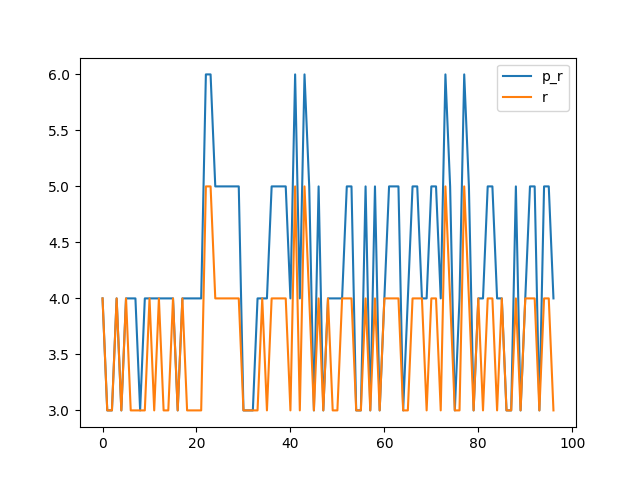
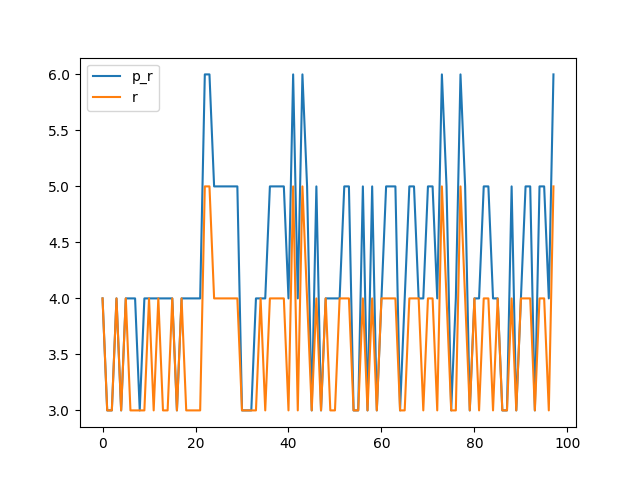
0x0061

diff --git a/benchmark.md b/benchmark.md
@@ -192,16 +192,18 @@ Synthesising 0x005F pexact:238 r=5 exact:272 r=4
 
 Synthesising 0x0060 pexact:208 r=4 exact:224 r=3
 
+Synthesising 0x0061 pexact:406 r=6 exact:472 r=5
+
 ```mermaid
 xychart-beta
     title "Comparison powertwoexact twoexact"
-    x-axis [0, 1, 2, 3, 4, 5, 6, 7, 8, 9, 10, 11, 12, 13, 14, 15, 16, 17, 18, 19, 20, 21, 22, 23, 24, 25, 26, 27, 28, 29, 30, 31, 32, 33, 34, 35, 36, 37, 38, 39, 40, 41, 42, 43, 44, 45, 46, 47, 48, 49, 50, 51, 52, 53, 54, 55, 56, 57, 58, 59, 60, 61, 62, 63, 64, 65, 66, 67, 68, 69, 70, 71, 72, 73, 74, 75, 76, 77, 78, 79, 80, 81, 82, 83, 84, 85, 86, 87, 88, 89, 90, 91, 92, 93, 94, 95, 96]
+    x-axis [0, 1, 2, 3, 4, 5, 6, 7, 8, 9, 10, 11, 12, 13, 14, 15, 16, 17, 18, 19, 20, 21, 22, 23, 24, 25, 26, 27, 28, 29, 30, 31, 32, 33, 34, 35, 36, 37, 38, 39, 40, 41, 42, 43, 44, 45, 46, 47, 48, 49, 50, 51, 52, 53, 54, 55, 56, 57, 58, 59, 60, 61, 62, 63, 64, 65, 66, 67, 68, 69, 70, 71, 72, 73, 74, 75, 76, 77, 78, 79, 80, 81, 82, 83, 84, 85, 86, 87, 88, 89, 90, 91, 92, 93, 94, 95, 96, 97]
     y-axis "Switching Activity" 0-->472
-    line [96, 152, 152, 182, 152, 182, 208, 182, 152, 208, 182, 182, 182, 182, 182, 182, 152, 182, 208, 182, 208, 182, 406, 400, 336, 310, 310, 304, 310, 304, 224, 216, 152, 208, 182, 182, 336, 310, 310, 304, 208, 406, 182, 400, 310, 224, 304, 216, 182, 182, 182, 182, 310, 304, 224, 216, 310, 224, 304, 216, 280, 326, 326, 238, 152, 208, 336, 310, 182, 182, 310, 304, 208, 406, 310, 224, 182, 400, 304, 216, 182, 182, 310, 304, 182, 182, 224, 216, 310, 224, 280, 326, 304, 216, 326, 238, 208]
-    line [192, 152, 152, 312, 152, 352, 224, 192, 192, 224, 352, 216, 320, 216, 216, 352, 152, 326, 224, 216, 224, 192, 464, 448, 352, 344, 344, 320, 336, 352, 224, 216, 192, 224, 318, 192, 352, 344, 344, 312, 224, 448, 192, 440, 344, 224, 312, 216, 320, 216, 216, 280, 344, 312, 224, 216, 344, 224, 320, 216, 344, 336, 344, 288, 152, 224, 352, 336, 320, 192, 344, 320, 224, 472, 336, 224, 192, 448, 312, 216, 248, 192, 320, 352, 216, 192, 224, 216, 320, 224, 352, 344, 320, 216, 336, 272, 224]
-    line [244.1237113402062, 244.1237113402062, 244.1237113402062, 244.1237113402062, 244.1237113402062, 244.1237113402062, 244.1237113402062, 244.1237113402062, 244.1237113402062, 244.1237113402062, 244.1237113402062, 244.1237113402062, 244.1237113402062, 244.1237113402062, 244.1237113402062, 244.1237113402062, 244.1237113402062, 244.1237113402062, 244.1237113402062, 244.1237113402062, 244.1237113402062, 244.1237113402062, 244.1237113402062, 244.1237113402062, 244.1237113402062, 244.1237113402062, 244.1237113402062, 244.1237113402062, 244.1237113402062, 244.1237113402062, 244.1237113402062, 244.1237113402062, 244.1237113402062, 244.1237113402062, 244.1237113402062, 244.1237113402062, 244.1237113402062, 244.1237113402062, 244.1237113402062, 244.1237113402062, 244.1237113402062, 244.1237113402062, 244.1237113402062, 244.1237113402062, 244.1237113402062, 244.1237113402062, 244.1237113402062, 244.1237113402062, 244.1237113402062, 244.1237113402062, 244.1237113402062, 244.1237113402062, 244.1237113402062, 244.1237113402062, 244.1237113402062, 244.1237113402062, 244.1237113402062, 244.1237113402062, 244.1237113402062, 244.1237113402062, 244.1237113402062, 244.1237113402062, 244.1237113402062, 244.1237113402062, 244.1237113402062, 244.1237113402062, 244.1237113402062, 244.1237113402062, 244.1237113402062, 244.1237113402062, 244.1237113402062, 244.1237113402062, 244.1237113402062, 244.1237113402062, 244.1237113402062, 244.1237113402062, 244.1237113402062, 244.1237113402062, 244.1237113402062, 244.1237113402062, 244.1237113402062, 244.1237113402062, 244.1237113402062, 244.1237113402062, 244.1237113402062, 244.1237113402062, 244.1237113402062, 244.1237113402062, 244.1237113402062, 244.1237113402062, 244.1237113402062, 244.1237113402062, 244.1237113402062, 244.1237113402062, 244.1237113402062, 244.1237113402062, 244.1237113402062]
-    line [278.3917525773196, 278.3917525773196, 278.3917525773196, 278.3917525773196, 278.3917525773196, 278.3917525773196, 278.3917525773196, 278.3917525773196, 278.3917525773196, 278.3917525773196, 278.3917525773196, 278.3917525773196, 278.3917525773196, 278.3917525773196, 278.3917525773196, 278.3917525773196, 278.3917525773196, 278.3917525773196, 278.3917525773196, 278.3917525773196, 278.3917525773196, 278.3917525773196, 278.3917525773196, 278.3917525773196, 278.3917525773196, 278.3917525773196, 278.3917525773196, 278.3917525773196, 278.3917525773196, 278.3917525773196, 278.3917525773196, 278.3917525773196, 278.3917525773196, 278.3917525773196, 278.3917525773196, 278.3917525773196, 278.3917525773196, 278.3917525773196, 278.3917525773196, 278.3917525773196, 278.3917525773196, 278.3917525773196, 278.3917525773196, 278.3917525773196, 278.3917525773196, 278.3917525773196, 278.3917525773196, 278.3917525773196, 278.3917525773196, 278.3917525773196, 278.3917525773196, 278.3917525773196, 278.3917525773196, 278.3917525773196, 278.3917525773196, 278.3917525773196, 278.3917525773196, 278.3917525773196, 278.3917525773196, 278.3917525773196, 278.3917525773196, 278.3917525773196, 278.3917525773196, 278.3917525773196, 278.3917525773196, 278.3917525773196, 278.3917525773196, 278.3917525773196, 278.3917525773196, 278.3917525773196, 278.3917525773196, 278.3917525773196, 278.3917525773196, 278.3917525773196, 278.3917525773196, 278.3917525773196, 278.3917525773196, 278.3917525773196, 278.3917525773196, 278.3917525773196, 278.3917525773196, 278.3917525773196, 278.3917525773196, 278.3917525773196, 278.3917525773196, 278.3917525773196, 278.3917525773196, 278.3917525773196, 278.3917525773196, 278.3917525773196, 278.3917525773196, 278.3917525773196, 278.3917525773196, 278.3917525773196, 278.3917525773196, 278.3917525773196, 278.3917525773196]
-    bar [80, 60, 60, 80, 60, 80, 80, 80, 60, 80, 80, 80, 80, 80, 80, 80, 60, 80, 80, 80, 80, 80, 120, 120, 100, 100, 100, 100, 100, 100, 60, 60, 60, 80, 80, 80, 100, 100, 100, 100, 80, 120, 80, 120, 100, 60, 100, 60, 80, 80, 80, 80, 100, 100, 60, 60, 100, 60, 100, 60, 80, 100, 100, 100, 60, 80, 100, 100, 80, 80, 100, 100, 80, 120, 100, 60, 80, 120, 100, 60, 80, 80, 100, 100, 80, 80, 60, 60, 100, 60, 80, 100, 100, 60, 100, 100, 80]
-    bar [80, 60, 60, 80, 60, 80, 60, 60, 60, 60, 80, 60, 80, 60, 60, 80, 60, 80, 60, 60, 60, 60, 100, 100, 80, 80, 80, 80, 80, 80, 60, 60, 60, 60, 80, 60, 80, 80, 80, 80, 60, 100, 60, 100, 80, 60, 80, 60, 80, 60, 60, 80, 80, 80, 60, 60, 80, 60, 80, 60, 80, 80, 80, 80, 60, 60, 80, 80, 80, 60, 80, 80, 60, 100, 80, 60, 60, 100, 80, 60, 80, 60, 80, 80, 60, 80, 60, 60, 80, 60, 80, 80, 80, 60, 80, 80, 60]
+    line [96, 152, 152, 182, 152, 182, 208, 182, 152, 208, 182, 182, 182, 182, 182, 182, 152, 182, 208, 182, 208, 182, 406, 400, 336, 310, 310, 304, 310, 304, 224, 216, 152, 208, 182, 182, 336, 310, 310, 304, 208, 406, 182, 400, 310, 224, 304, 216, 182, 182, 182, 182, 310, 304, 224, 216, 310, 224, 304, 216, 280, 326, 326, 238, 152, 208, 336, 310, 182, 182, 310, 304, 208, 406, 310, 224, 182, 400, 304, 216, 182, 182, 310, 304, 182, 182, 224, 216, 310, 224, 280, 326, 304, 216, 326, 238, 208, 406]
+    line [192, 152, 152, 312, 152, 352, 224, 192, 192, 224, 352, 216, 320, 216, 216, 352, 152, 326, 224, 216, 224, 192, 464, 448, 352, 344, 344, 320, 336, 352, 224, 216, 192, 224, 318, 192, 352, 344, 344, 312, 224, 448, 192, 440, 344, 224, 312, 216, 320, 216, 216, 280, 344, 312, 224, 216, 344, 224, 320, 216, 344, 336, 344, 288, 152, 224, 352, 336, 320, 192, 344, 320, 224, 472, 336, 224, 192, 448, 312, 216, 248, 192, 320, 352, 216, 192, 224, 216, 320, 224, 352, 344, 320, 216, 336, 272, 224, 472]
+    line [245.77551020408163, 245.77551020408163, 245.77551020408163, 245.77551020408163, 245.77551020408163, 245.77551020408163, 245.77551020408163, 245.77551020408163, 245.77551020408163, 245.77551020408163, 245.77551020408163, 245.77551020408163, 245.77551020408163, 245.77551020408163, 245.77551020408163, 245.77551020408163, 245.77551020408163, 245.77551020408163, 245.77551020408163, 245.77551020408163, 245.77551020408163, 245.77551020408163, 245.77551020408163, 245.77551020408163, 245.77551020408163, 245.77551020408163, 245.77551020408163, 245.77551020408163, 245.77551020408163, 245.77551020408163, 245.77551020408163, 245.77551020408163, 245.77551020408163, 245.77551020408163, 245.77551020408163, 245.77551020408163, 245.77551020408163, 245.77551020408163, 245.77551020408163, 245.77551020408163, 245.77551020408163, 245.77551020408163, 245.77551020408163, 245.77551020408163, 245.77551020408163, 245.77551020408163, 245.77551020408163, 245.77551020408163, 245.77551020408163, 245.77551020408163, 245.77551020408163, 245.77551020408163, 245.77551020408163, 245.77551020408163, 245.77551020408163, 245.77551020408163, 245.77551020408163, 245.77551020408163, 245.77551020408163, 245.77551020408163, 245.77551020408163, 245.77551020408163, 245.77551020408163, 245.77551020408163, 245.77551020408163, 245.77551020408163, 245.77551020408163, 245.77551020408163, 245.77551020408163, 245.77551020408163, 245.77551020408163, 245.77551020408163, 245.77551020408163, 245.77551020408163, 245.77551020408163, 245.77551020408163, 245.77551020408163, 245.77551020408163, 245.77551020408163, 245.77551020408163, 245.77551020408163, 245.77551020408163, 245.77551020408163, 245.77551020408163, 245.77551020408163, 245.77551020408163, 245.77551020408163, 245.77551020408163, 245.77551020408163, 245.77551020408163, 245.77551020408163, 245.77551020408163, 245.77551020408163, 245.77551020408163, 245.77551020408163, 245.77551020408163, 245.77551020408163, 245.77551020408163]
+    line [280.3673469387755, 280.3673469387755, 280.3673469387755, 280.3673469387755, 280.3673469387755, 280.3673469387755, 280.3673469387755, 280.3673469387755, 280.3673469387755, 280.3673469387755, 280.3673469387755, 280.3673469387755, 280.3673469387755, 280.3673469387755, 280.3673469387755, 280.3673469387755, 280.3673469387755, 280.3673469387755, 280.3673469387755, 280.3673469387755, 280.3673469387755, 280.3673469387755, 280.3673469387755, 280.3673469387755, 280.3673469387755, 280.3673469387755, 280.3673469387755, 280.3673469387755, 280.3673469387755, 280.3673469387755, 280.3673469387755, 280.3673469387755, 280.3673469387755, 280.3673469387755, 280.3673469387755, 280.3673469387755, 280.3673469387755, 280.3673469387755, 280.3673469387755, 280.3673469387755, 280.3673469387755, 280.3673469387755, 280.3673469387755, 280.3673469387755, 280.3673469387755, 280.3673469387755, 280.3673469387755, 280.3673469387755, 280.3673469387755, 280.3673469387755, 280.3673469387755, 280.3673469387755, 280.3673469387755, 280.3673469387755, 280.3673469387755, 280.3673469387755, 280.3673469387755, 280.3673469387755, 280.3673469387755, 280.3673469387755, 280.3673469387755, 280.3673469387755, 280.3673469387755, 280.3673469387755, 280.3673469387755, 280.3673469387755, 280.3673469387755, 280.3673469387755, 280.3673469387755, 280.3673469387755, 280.3673469387755, 280.3673469387755, 280.3673469387755, 280.3673469387755, 280.3673469387755, 280.3673469387755, 280.3673469387755, 280.3673469387755, 280.3673469387755, 280.3673469387755, 280.3673469387755, 280.3673469387755, 280.3673469387755, 280.3673469387755, 280.3673469387755, 280.3673469387755, 280.3673469387755, 280.3673469387755, 280.3673469387755, 280.3673469387755, 280.3673469387755, 280.3673469387755, 280.3673469387755, 280.3673469387755, 280.3673469387755, 280.3673469387755, 280.3673469387755, 280.3673469387755]
+    bar [80, 60, 60, 80, 60, 80, 80, 80, 60, 80, 80, 80, 80, 80, 80, 80, 60, 80, 80, 80, 80, 80, 120, 120, 100, 100, 100, 100, 100, 100, 60, 60, 60, 80, 80, 80, 100, 100, 100, 100, 80, 120, 80, 120, 100, 60, 100, 60, 80, 80, 80, 80, 100, 100, 60, 60, 100, 60, 100, 60, 80, 100, 100, 100, 60, 80, 100, 100, 80, 80, 100, 100, 80, 120, 100, 60, 80, 120, 100, 60, 80, 80, 100, 100, 80, 80, 60, 60, 100, 60, 80, 100, 100, 60, 100, 100, 80, 120]
+    bar [80, 60, 60, 80, 60, 80, 60, 60, 60, 60, 80, 60, 80, 60, 60, 80, 60, 80, 60, 60, 60, 60, 100, 100, 80, 80, 80, 80, 80, 80, 60, 60, 60, 60, 80, 60, 80, 80, 80, 80, 60, 100, 60, 100, 80, 60, 80, 60, 80, 60, 60, 80, 80, 80, 60, 60, 80, 60, 80, 60, 80, 80, 80, 80, 60, 60, 80, 80, 80, 60, 80, 80, 60, 100, 80, 60, 60, 100, 80, 60, 80, 60, 80, 80, 60, 80, 60, 60, 80, 60, 80, 80, 80, 60, 80, 80, 60, 100]
 ```
 
